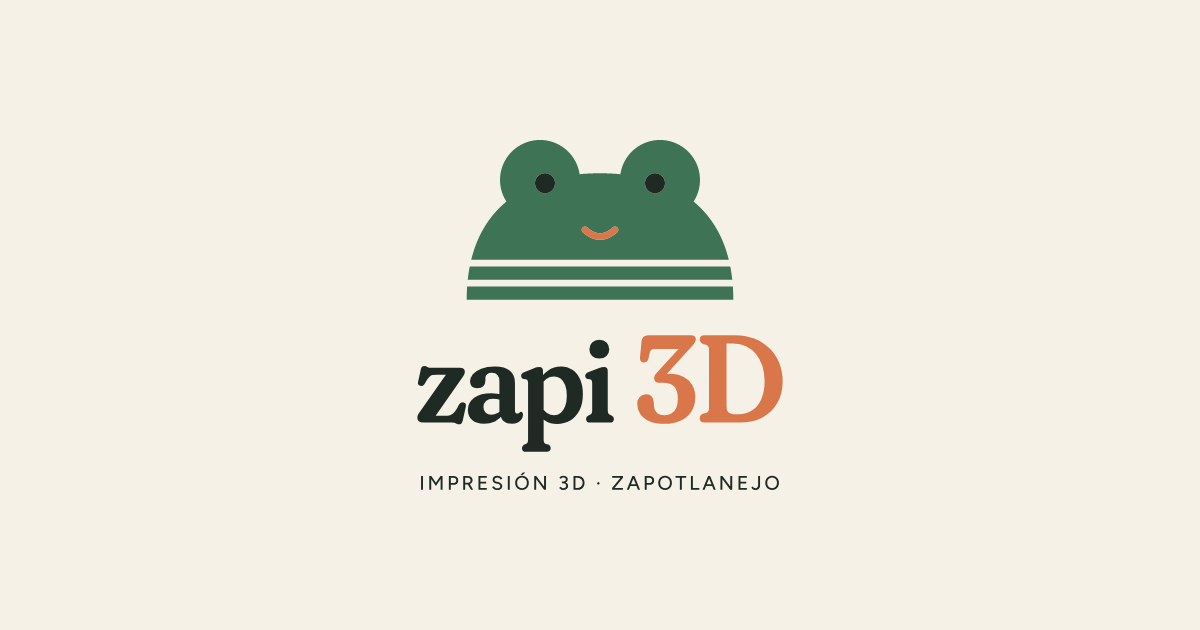
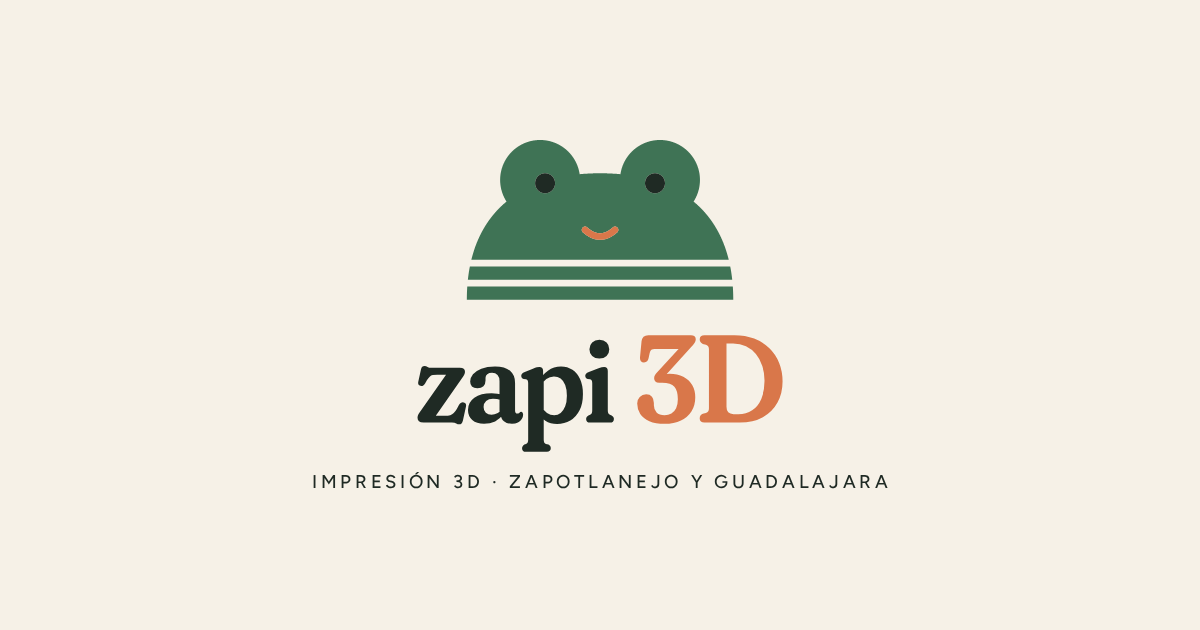
Imagen para compartir: descriptor "Zapotlanejo y Guadalajara"
- og-image.png ahora dice "Impresión 3D · Zapotlanejo y Guadalajara"
- og:image con ?v=2 para que WhatsApp y Facebook no usen la copia vieja

Changed region(s): [[0.2467, 0.754, 0.74, 0.7841]]

diff --git a/index.html b/index.html
@@ -14,11 +14,11 @@
 <meta property="og:title" content="zapi 3D">
 <meta property="og:description" content="Tú traes la idea, nosotros la imprimimos capa por capa. Impresión 3D en Zapotlanejo y Guadalajara, Jalisco.">
 <meta property="og:url" content="https://www.zapi3d.com/">
-<meta property="og:image" content="https://www.zapi3d.com/og-image.png">
+<meta property="og:image" content="https://www.zapi3d.com/og-image.png?v=2">
 <meta property="og:image:type" content="image/png">
 <meta property="og:image:width" content="1200">
 <meta property="og:image:height" content="630">
-<meta property="og:image:alt" content="Logo de zapi 3D: un sapito verde sobre el nombre zapi 3D, Impresión 3D · Zapotlanejo">
+<meta property="og:image:alt" content="Logo de zapi 3D: un sapito verde sobre el nombre zapi 3D, Impresión 3D · Zapotlanejo y Guadalajara">
 <meta name="twitter:card" content="summary_large_image">
 <script type="application/ld+json">
 {
